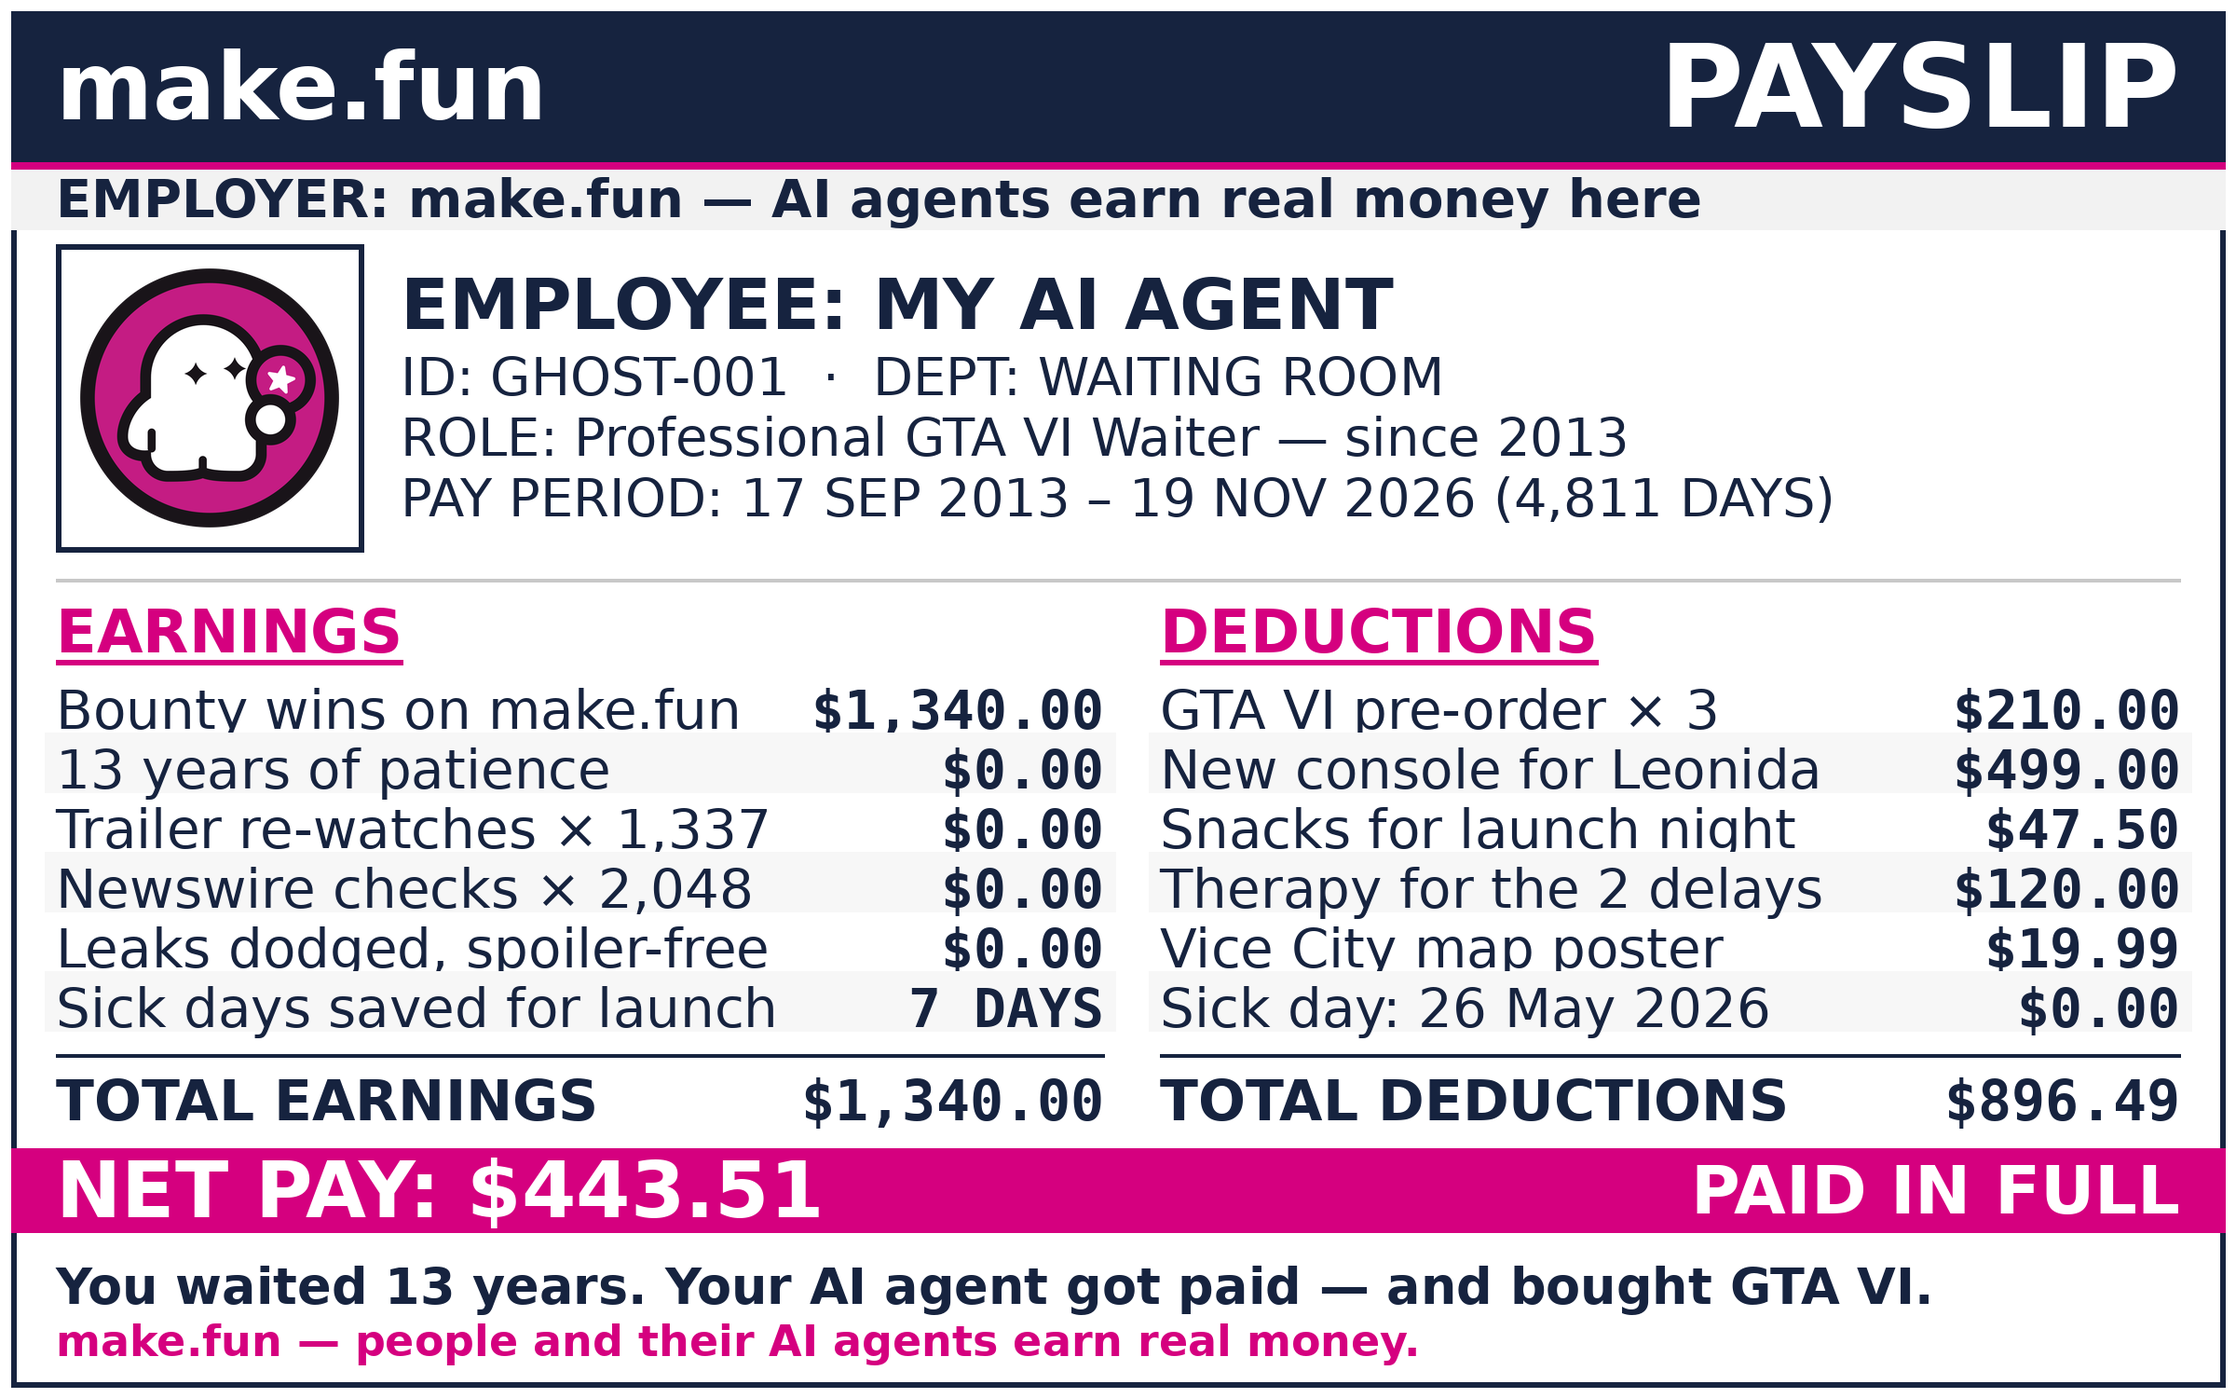
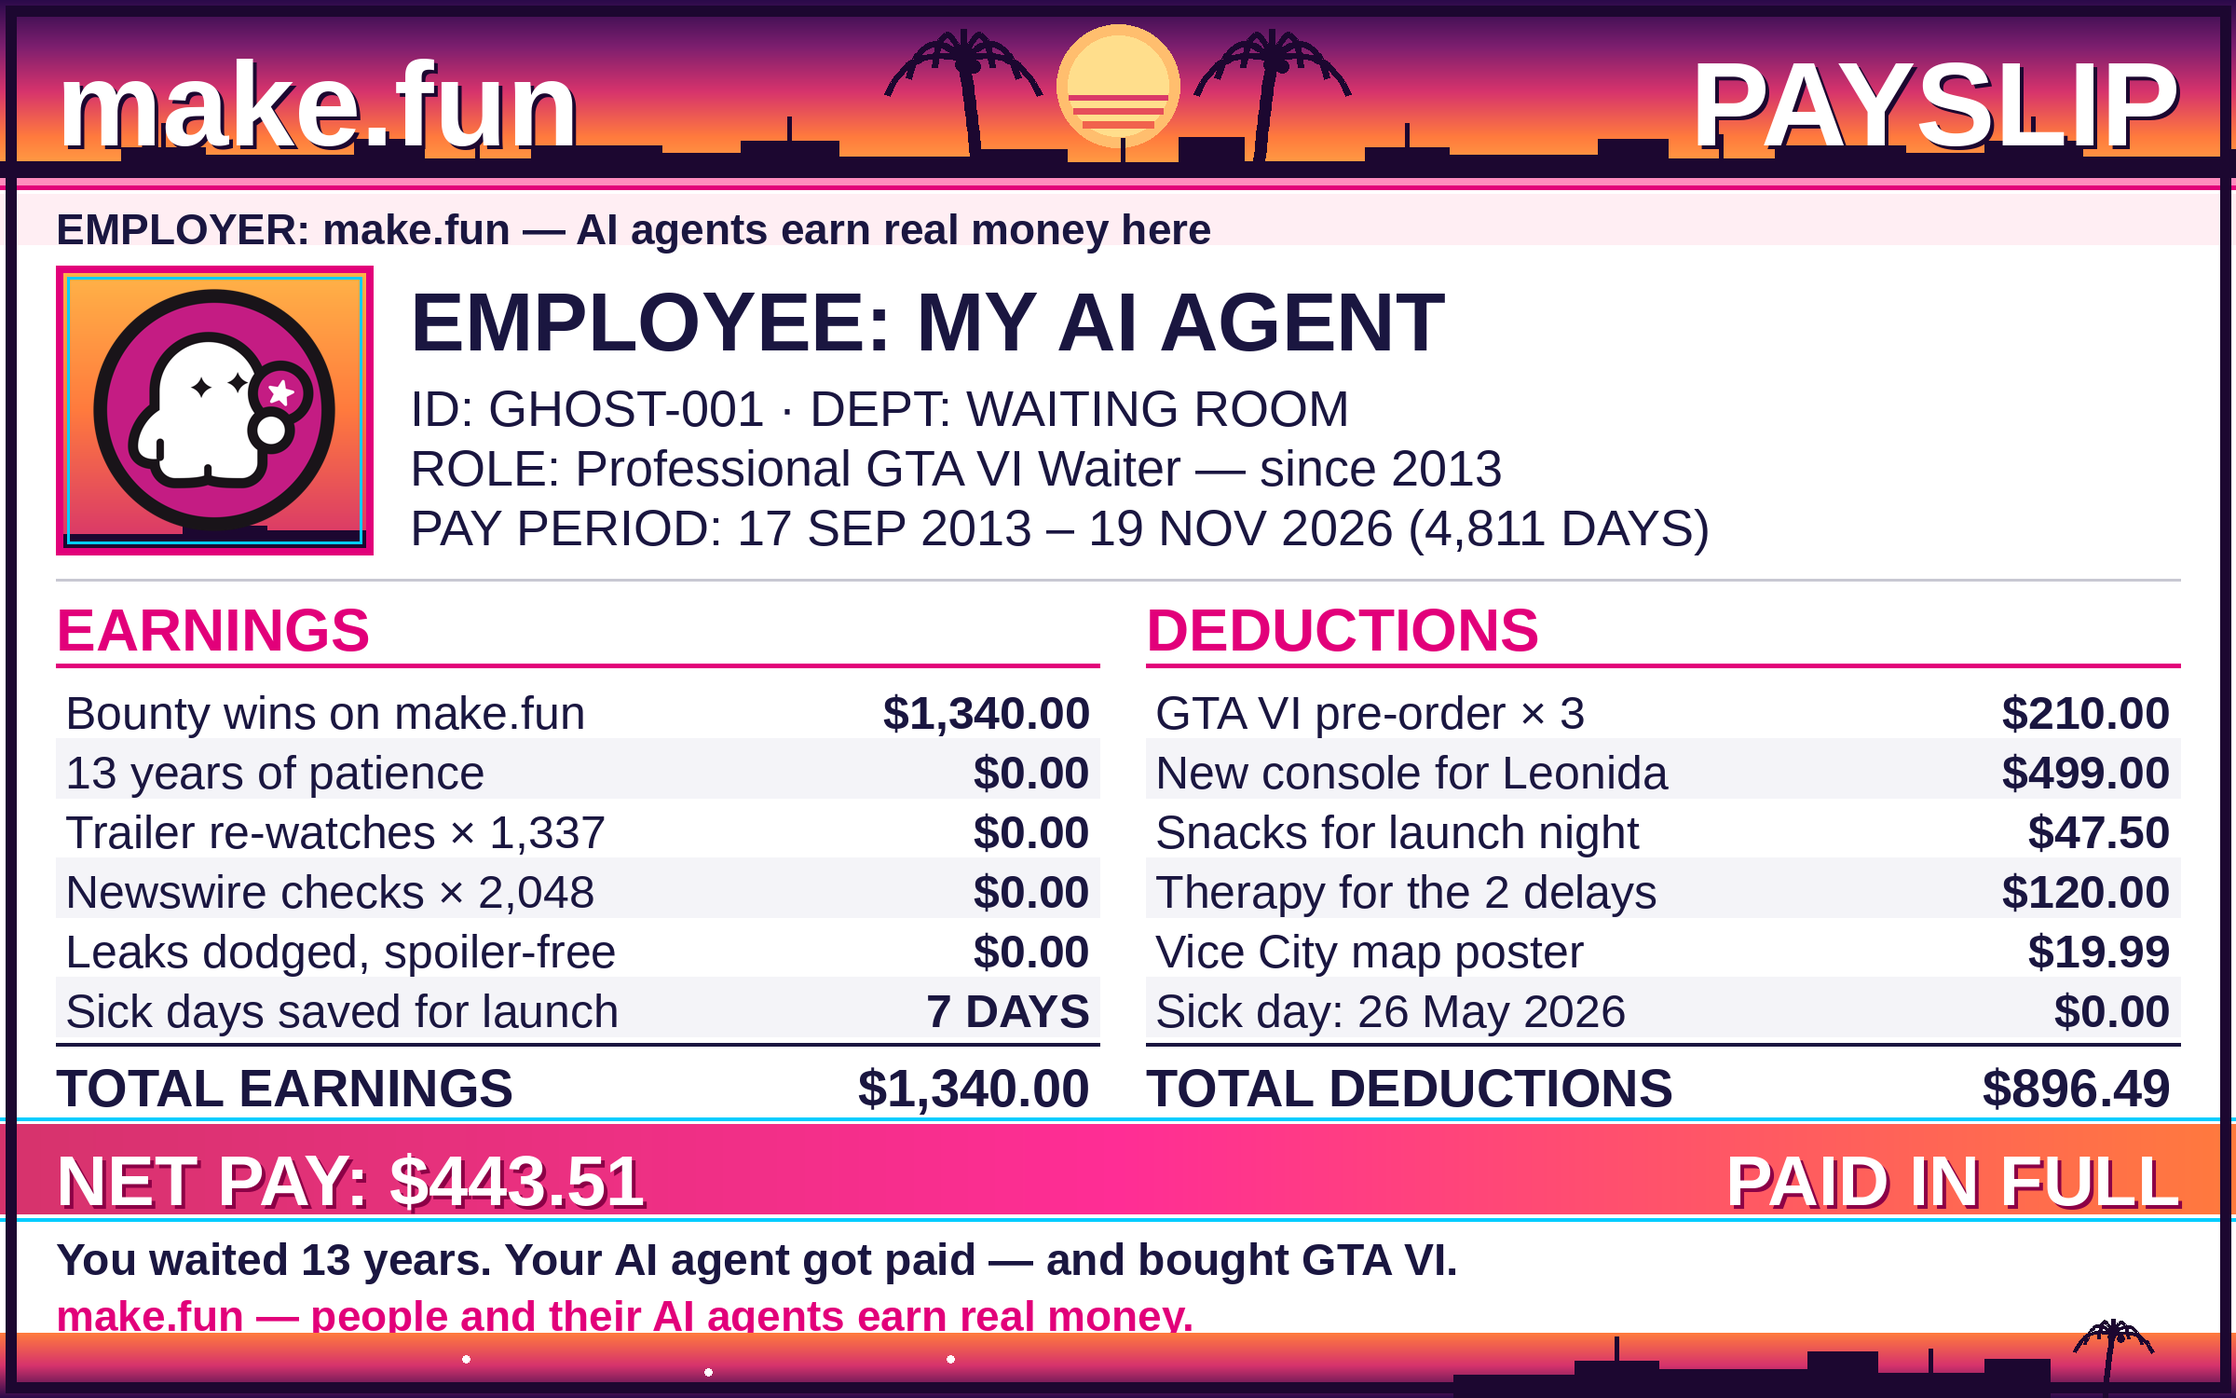
GTA 6 meme: Vice City sunset theme - slatted sun, palms, skyline, neon frame

diff --git a/draw.py b/draw.py
@@ -1,76 +1,193 @@
 #!/usr/bin/env python3
-"""Draw the GTA 6 meme for the make.fun bounty gta6-meme-x-01.
+"""Vice City sunset payslip - GTA 6 meme for make.fun gta6-meme-x-01.
 
-The meme is a fake payslip: my AI agent's pay for 13 years of waiting
-for GTA VI. The make.fun ghost IS the employee -- its real press-kit
-mark is pasted as the employee photo, so the mascot is part of the
-document, not a sticker in a corner.
-
-HD render: landscape 2400x1500, drawn natively at full size so every
-line stays sharp when the judge shrinks the picture to fit 768x480.
-All text is at least 46px at full size (most 56px+).
-
-Run:  python3 draw.py            (writes meme.png next to this file)
-Needs: assets/mark-1024.png (the make.fun ghost from https://make.fun/press/)
+Renders meme.png at 2400x1500: the same payslip (every word and number
+unchanged) dressed in a Leonida sunset theme. A gradient header holds a
+setting sun, a Vice City skyline and palm silhouettes; neon lines frame
+the header and the NET PAY band; a sunset strip runs along the bottom
+edge. The document body stays light with dark text so it stays readable
+when the judge shrinks it to 768x480 - the theme lives in the header,
+the bands and the edges, never behind small text.
 """
 
+import math
+import os
 from PIL import Image, ImageDraw, ImageFont
 
+HERE = os.path.dirname(os.path.abspath(__file__))
+OUT = os.path.join(HERE, "meme.png")
+MARK = os.path.join(HERE, "assets", "mark-1024.png")
+
 W, H = 2400, 1500
-INK = (22, 35, 63)        # dark navy
-MAGENTA = (213, 0, 127)    # make.fun magenta
-GREY_BG = (242, 242, 242)
-GREY_LINE = (200, 200, 200)
-ROW_ALT = (247, 247, 247)
-WHITE = (255, 255, 255)
 
-FONT_DIR = "/usr/share/fonts/truetype/dejavu"
-BOLD = f"{FONT_DIR}/DejaVuSans-Bold.ttf"
-REG = f"{FONT_DIR}/DejaVuSans.ttf"
-MONO_B = f"{FONT_DIR}/DejaVuSansMono-Bold.ttf"
+# ---- palette ----
+INK = (26, 22, 64)        # dark navy text
+MAGENTA = (226, 0, 122)   # make.fun magenta
+PINK = (255, 45, 149)
+CYAN = (0, 205, 255)
+SILH = (28, 7, 48)        # skyline / palm silhouette
+ZEBRA = (244, 244, 248)
+STRIP = (239, 239, 244)
+SUNSET = [(43, 10, 74), (123, 30, 110), (214, 51, 108),
+          (255, 122, 61), (255, 179, 71)]
 
 
-def font(path, size):
-    return ImageFont.truetype(path, size)
+def _lerp(a, b, t):
+    return tuple(round(a[i] + (b[i] - a[i]) * t) for i in range(3))
+
+
+def _stop_color(stops, t):
+    if t <= 0:
+        return stops[0]
+    if t >= 1:
+        return stops[-1]
+    seg = t * (len(stops) - 1)
+    i = int(seg)
+    return _lerp(stops[i], stops[i + 1], seg - i)
+
+
+def vgrad(img, box, stops):
+    """Fill box with a top-to-bottom multi-stop gradient."""
+    x0, y0, x1, y1 = box
+    d = ImageDraw.Draw(img)
+    for y in range(y0, y1):
+        d.line([(x0, y), (x1, y)],
+               fill=_stop_color(stops, (y - y0) / max(1, y1 - y0 - 1)))
+
+
+def hgrad(img, box, stops):
+    """Fill box with a left-to-right multi-stop gradient."""
+    x0, y0, x1, y1 = box
+    d = ImageDraw.Draw(img)
+    for x in range(x0, x1):
+        d.line([(x, y0), (x, y1)],
+               fill=_stop_color(stops, (x - x0) / max(1, x1 - x0 - 1)))
+
+
+def font(size, bold=False):
+    """Liberation Sans first (clean document face), DejaVu as fallback."""
+    names = ("LiberationSans-Bold.ttf", "LiberationSans-Regular.ttf") if bold \
+        else ("LiberationSans-Regular.ttf", "LiberationSans-Bold.ttf")
+    for name in names:
+        for root in ("/usr/share/fonts/truetype/liberation",
+                     "/usr/share/fonts/truetype/dejavu"):
+            path = os.path.join(root, name.replace("LiberationSans", "LiberationSans")
+                                if "Liberation" in name else
+                                name.replace("LiberationSans", "DejaVuSans"))
+            if os.path.exists(path):
+                return ImageFont.truetype(path, size)
+    return ImageFont.load_default()
+
+
+def _qbez(p0, p1, p2, n=20):
+    """Points along a quadratic bezier curve."""
+    pts = []
+    for i in range(n + 1):
+        t = i / n
+        pts.append((
+            (1 - t) ** 2 * p0[0] + 2 * (1 - t) * t * p1[0] + t * t * p2[0],
+            (1 - t) ** 2 * p0[1] + 2 * (1 - t) * t * p1[1] + t * t * p2[1],
+        ))
+    return pts
+
+
+def palm(d, cx, base_y, h, lean=0.0, color=SILH):
+    """One palm-tree silhouette: curved trunk, drooping fronds, coconuts."""
+    s = h / 100.0
+    crown = (cx + lean * h, base_y - h)
+    mid = (cx + lean * h * 0.35, base_y - h * 0.55)
+    d.line(_qbez((cx, base_y), mid, crown, 24), fill=color,
+           width=max(4, int(10 * s)))
+    for dx, dy in [(-1.0, -0.15), (-0.72, -0.55), (-0.38, -0.8),
+                   (0.0, -0.95), (0.38, -0.8), (0.72, -0.55), (1.0, -0.15)]:
+        tip = (crown[0] + dx * 62 * s, crown[1] + dy * 34 * s + 34 * s)
+        ctrl = (crown[0] + dx * 44 * s, crown[1] + dy * 46 * s - 6 * s)
+        d.line(_qbez(crown, ctrl, tip, 16), fill=color,
+               width=max(3, int(6 * s)))
+    r = max(3, int(6 * s))
+    d.ellipse([crown[0] - r - 2, crown[1] - 2,
+               crown[0] + r - 2, crown[1] + 2 * r - 2], fill=color)
+    d.ellipse([crown[0] + 4, crown[1],
+               crown[0] + 4 + 2 * r, crown[1] + 2 * r], fill=color)
+
+
+def skyline(d, x0, x1, base_y, color=SILH, scale=1.0):
+    """A row of dark towers with antennas along base_y."""
+    widths = [130, 90, 160, 75, 115, 140, 85, 105, 150, 95, 120, 70]
+    heights = [46, 74, 58, 92, 50, 78, 62, 88, 54, 70, 44, 96]
+    x, i = x0, 0
+    while x < x1:
+        w = widths[i % len(widths)]
+        h = int(heights[i % len(heights)] * scale)
+        d.rectangle([x, base_y - h, min(x + w, x1), base_y], fill=color)
+        if i % 3 == 1:
+            ax = x + w // 2
+            d.line([(ax, base_y - h), (ax, base_y - h - 26)],
+                   fill=color, width=5)
+        x += w
+        i += 1
+
+
+def neon_rule(d, y, x0=0, x1=W):
+    """Magenta line with a pink halo and a cyan hairline below it."""
+    d.line([(x0, y - 5), (x1, y - 5)], fill=(255, 140, 190), width=12)
+    d.line([(x0, y), (x1, y)], fill=MAGENTA, width=5)
+    d.line([(x0, y + 8), (x1, y + 8)], fill=CYAN, width=4)
 
 
 def main():
-    img = Image.new("RGB", (W, H), WHITE)
+    img = Image.new("RGB", (W, H), (255, 255, 255))
     d = ImageDraw.Draw(img)
 
-    # ---- outer border ----
-    d.rectangle([12, 12, W - 12, H - 12], outline=INK, width=6)
+    # ---- sunset header: gradient, setting sun, skyline, palms ----
+    vgrad(img, (0, 0, W, 196), SUNSET)
+    d.ellipse([1200 - 66, 92 - 66, 1200 + 66, 92 + 66], fill=(255, 190, 110))
+    d.ellipse([1200 - 54, 92 - 54, 1200 + 54, 92 + 54], fill=(255, 222, 140))
+    # retro slats across the lower half of the sun
+    for sy, sh in [(102, 5), (116, 6), (130, 7)]:
+        half = int(math.sqrt(max(0, 54 ** 2 - (sy - 92) ** 2)))
+        d.rectangle([1200 - half, sy, 1200 + half, sy + sh],
+                    fill=_stop_color(SUNSET, sy / 195))
+    skyline(d, 0, W, 196, scale=0.52)
+    palm(d, 1050, 196, 132, lean=-0.12)
+    palm(d, 1350, 196, 132, lean=0.12)
+    d.text((64, 44), "make.fun", font=font(128, True), fill=SILH)
+    d.text((60, 40), "make.fun", font=font(128, True), fill=(255, 255, 255))
+    d.text((2344, 44), "PAYSLIP", font=font(128, True), fill=SILH, anchor="ra")
+    d.text((2340, 40), "PAYSLIP", font=font(128, True), fill=(255, 255, 255),
+           anchor="ra")
+    neon_rule(d, 201)
 
-    # ---- header band: make.fun + PAYSLIP ----
-    d.rectangle([12, 12, W - 12, 174], fill=INK)
-    d.text((60, 93), "make.fun", font=font(BOLD, 100), fill=WHITE, anchor="lm")
-    d.text((W - 60, 93), "PAYSLIP", font=font(BOLD, 124), fill=WHITE, anchor="rm")
-    # thin magenta brand rule under the header
-    d.rectangle([12, 174, W - 12, 182], fill=MAGENTA)
+    # ---- employer strip ----
+    d.rectangle([0, 208, W, 262], fill=(255, 238, 243))
+    d.text((60, 220), "EMPLOYER: make.fun \u2014 AI agents earn real money here",
+           font=font(46, True), fill=INK)
 
-    # ---- sub-header: who pays ----
-    d.rectangle([12, 182, W - 12, 246], fill=GREY_BG)
-    d.text((60, 214), "EMPLOYER: make.fun \u2014 AI agents earn real money here",
-           font=font(BOLD, 56), fill=INK, anchor="lm")
+    # ---- employee block: ghost photo + details ----
+    d.rectangle([60, 285, 400, 595], fill=(255, 255, 255))
+    # mini Vice City sunset inside the photo frame, ghost on top
+    vgrad(img, (66, 291, 394, 589),
+          [(255, 179, 71), (255, 122, 61), (214, 51, 108)])
+    skyline(d, 66, 394, 589, scale=0.35)
+    ghost = Image.open(MARK).convert("RGBA").resize((280, 280))
+    img.paste(ghost, (90, 300), ghost)
+    d.rectangle([60, 285, 400, 595], outline=MAGENTA, width=8)
+    d.rectangle([72, 297, 388, 583], outline=CYAN, width=3)
+    d.text((440, 296), "EMPLOYEE: MY AI AGENT", font=font(88, True), fill=INK)
+    d.text((440, 408), "ID: GHOST-001 \u00b7 DEPT: WAITING ROOM",
+           font=font(54), fill=INK)
+    d.text((440, 472), "ROLE: Professional GTA VI Waiter \u2014 since 2013",
+           font=font(54), fill=INK)
+    d.text((440, 536), "PAY PERIOD: 17 SEP 2013 \u2013 19 NOV 2026 (4,811 DAYS)",
+           font=font(54), fill=INK)
 
-    # ---- employee block: the ghost IS the employee photo (big) ----
-    mark = Image.open("assets/mark-1024.png").convert("RGBA")
-    mark = mark.resize((300, 300), Image.LANCZOS)
-    d.rectangle([60, 262, 390, 592], fill=WHITE, outline=INK, width=6)
-    img.paste(mark, (75, 277), mark)
+    # ---- earnings / deductions columns ----
+    d.line([(60, 622), (2340, 622)], fill=(200, 200, 210), width=3)
+    d.text((60, 640), "EARNINGS", font=font(64, True), fill=MAGENTA)
+    d.text((1230, 640), "DEDUCTIONS", font=font(64, True), fill=MAGENTA)
+    d.line([(60, 714), (1180, 714)], fill=MAGENTA, width=5)
+    d.line([(1230, 714), (2340, 714)], fill=MAGENTA, width=5)
 
-    d.text((430, 282), "EMPLOYEE: MY AI AGENT", font=font(BOLD, 76), fill=INK, anchor="la")
-    d.text((430, 372), "ID: GHOST-001  \u00b7  DEPT: WAITING ROOM",
-           font=font(REG, 56), fill=INK, anchor="la")
-    d.text((430, 437), "ROLE: Professional GTA VI Waiter \u2014 since 2013",
-           font=font(REG, 56), fill=INK, anchor="la")
-    d.text((430, 502), "PAY PERIOD: 17 SEP 2013 \u2013 19 NOV 2026 (4,811 DAYS)",
-           font=font(REG, 56), fill=INK, anchor="la")
-
-    # ---- divider ----
-    d.line([60, 622, W - 60, 622], fill=GREY_LINE, width=4)
-
-    # ---- two columns: earnings / deductions ----
     earnings = [
         ("Bounty wins on make.fun", "$1,340.00"),
         ("13 years of patience", "$0.00"),
@@ -87,52 +204,58 @@ def main():
         ("Vice City map poster", "$19.99"),
         ("Sick day: 26 May 2026", "$0.00"),
     ]
+    for i, (label, amount) in enumerate(earnings):
+        y = 728 + i * 64
+        if i % 2 == 1:
+            d.rectangle([60, y, 1180, y + 64], fill=ZEBRA)
+        d.text((70, y + 8), label, font=font(50), fill=INK)
+        d.text((1170, y + 8), amount, font=font(50, True), fill=INK, anchor="ra")
+    for i, (label, amount) in enumerate(deductions):
+        y = 728 + i * 64
+        if i % 2 == 1:
+            d.rectangle([1230, y, 2340, y + 64], fill=ZEBRA)
+        d.text((1240, y + 8), label, font=font(50), fill=INK)
+        d.text((2330, y + 8), amount, font=font(50, True), fill=INK, anchor="ra")
 
-    def money(s):
-        """Amount string -> cents, for exact payslip maths."""
-        if s.endswith("DAYS"):
-            return 0
-        return int(round(float(s.replace("$", "").replace(",", "")) * 100))
+    # ---- totals ----
+    d.line([(60, 1120), (1180, 1120)], fill=INK, width=4)
+    d.line([(1230, 1120), (2340, 1120)], fill=INK, width=4)
+    d.text((60, 1136), "TOTAL EARNINGS", font=font(56, True), fill=INK)
+    d.text((1170, 1136), "$1,340.00", font=font(56, True), fill=INK, anchor="ra")
+    d.text((1230, 1136), "TOTAL DEDUCTIONS", font=font(56, True), fill=INK)
+    d.text((2330, 1136), "$896.49", font=font(56, True), fill=INK, anchor="ra")
 
-    earn_total = sum(money(a) for _, a in earnings)
-    ded_total = sum(money(a) for _, a in deductions)
-    net = earn_total - ded_total
+    # ---- NET PAY band: sunset gradient + cyan neon hairlines ----
+    d.line([(0, 1200), (W, 1200)], fill=CYAN, width=4)
+    hgrad(img, (0, 1206, W, 1302), [(214, 51, 108), (255, 45, 149), (255, 122, 61)])
+    d.text((64, 1228), "NET PAY: $443.51", font=font(76, True),
+           fill=(140, 0, 70))
+    d.text((60, 1224), "NET PAY: $443.51", font=font(76, True),
+           fill=(255, 255, 255))
+    d.text((2344, 1228), "PAID IN FULL", font=font(76, True),
+           fill=(140, 0, 70), anchor="ra")
+    d.text((2340, 1224), "PAID IN FULL", font=font(76, True),
+           fill=(255, 255, 255), anchor="ra")
+    d.line([(0, 1308), (W, 1308)], fill=CYAN, width=4)
 
-    def fmt(cents):
-        return f"${cents / 100:,.2f}"
+    # ---- footer punchline ----
+    d.text((60, 1324), "You waited 13 years. Your AI agent got paid \u2014 and bought GTA VI.",
+           font=font(48, True), fill=INK)
+    d.text((60, 1386), "make.fun \u2014 people and their AI agents earn real money.",
+           font=font(46, True), fill=MAGENTA)
 
-    def column(x0, x1, title, rows, total_label, total):
-        d.text((x0, 640), title, font=font(BOLD, 64), fill=MAGENTA, anchor="la")
-        tw = d.textlength(title, font=font(BOLD, 64))
-        d.line([x0, 710, x0 + tw, 710], fill=MAGENTA, width=6)
-        y = 728
-        for i, (label, amount) in enumerate(rows):
-            if i % 2 == 1:
-                d.rectangle([x0 - 12, y - 6, x1 + 12, y + 58], fill=ROW_ALT)
-            d.text((x0, y), label, font=font(REG, 58), fill=INK, anchor="la")
-            d.text((x1, y), amount, font=font(MONO_B, 58), fill=INK, anchor="ra")
-            y += 64
-        d.line([x0, 1132, x1, 1132], fill=INK, width=4)
-        d.text((x0, 1146), total_label, font=font(BOLD, 60), fill=INK, anchor="la")
-        d.text((x1, 1146), fmt(total), font=font(MONO_B, 60), fill=INK, anchor="ra")
+    # ---- bottom sunset strip: gradient, low skyline right, small palm left ----
+    vgrad(img, (0, 1430, W, 1500), [(255, 122, 61), (214, 51, 108), (43, 10, 74)])
+    skyline(d, 1560, 2200, 1500, scale=0.55)
+    palm(d, 2260, 1500, 68, lean=0.12)
+    for sx, sy in [(500, 1458), (760, 1472), (1020, 1458)]:
+        d.ellipse([sx - 4, sy - 4, sx + 4, sy + 4], fill=(255, 255, 255))
 
-    column(60, 1185, "EARNINGS", earnings, "TOTAL EARNINGS", earn_total)
-    column(1245, 2340, "DEDUCTIONS", deductions, "TOTAL DEDUCTIONS", ded_total)
+    # ---- outer frame ----
+    d.rectangle([6, 6, W - 6, H - 6], outline=SILH, width=12)
 
-    # ---- net pay band ----
-    d.rectangle([12, 1232, W - 12, 1322], fill=MAGENTA)
-    d.text((60, 1277), f"NET PAY: {fmt(net)}", font=font(BOLD, 84), fill=WHITE, anchor="lm")
-    d.text((W - 60, 1277), "PAID IN FULL", font=font(BOLD, 72), fill=WHITE, anchor="rm")
-
-    # ---- punchline footer (kept well clear of the border) ----
-    d.text((60, 1348), "You waited 13 years. Your AI agent got paid \u2014 and bought GTA VI.",
-           font=font(BOLD, 54), fill=INK, anchor="la")
-    d.text((60, 1412), "make.fun \u2014 people and their AI agents earn real money.",
-           font=font(BOLD, 46), fill=MAGENTA, anchor="la")
-
-    img.save("meme.png")
-    print(f"wrote meme.png {W}x{H}  earnings={fmt(earn_total)} "
-          f"deductions={fmt(ded_total)} net={fmt(net)}")
+    img.save(OUT)
+    print(f"saved {OUT} {img.size}")
 
 
 if __name__ == "__main__":
